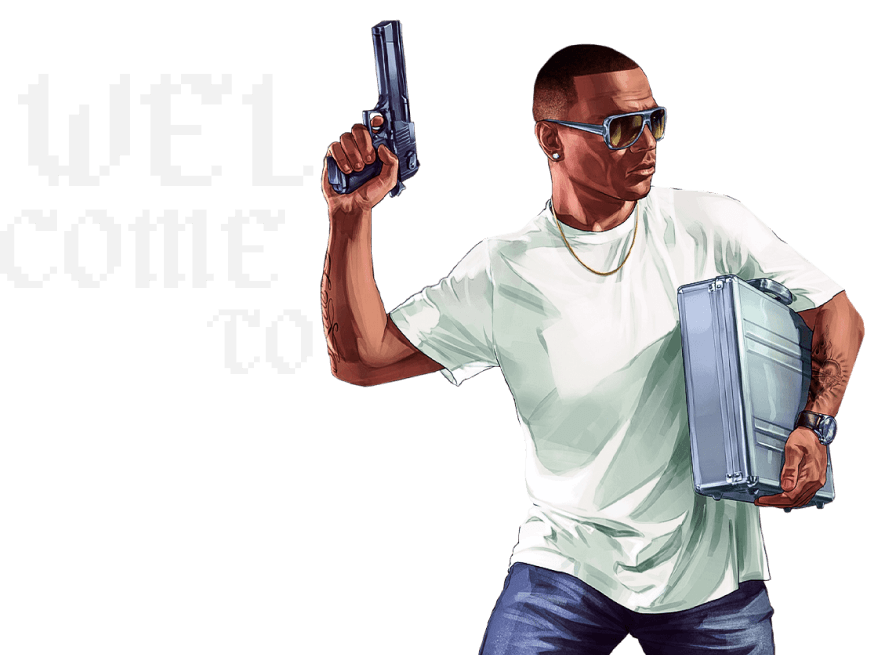
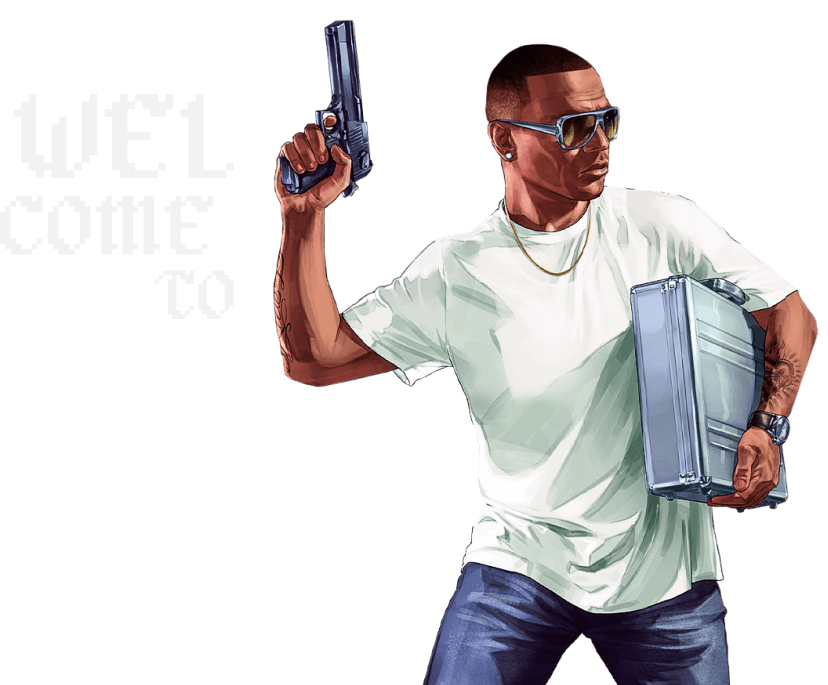
change home to match new design

Changed region(s): [[0.3321, 0.0305, 0.9964, 1.0], [0.8756, 0.3359, 0.9058, 0.3664]]

diff --git a/src/components/pages/home/homeWebSection/HomeWebSection.tsx b/src/components/pages/home/homeWebSection/HomeWebSection.tsx
@@ -1,0 +1,49 @@
+import Image from 'next/image'
+import { twMerge } from 'tailwind-merge'
+
+import liquidBg from '@/assets/images/home_bg_animated.gif'
+import hero from '@/assets/images/home_hero.png'
+import logo from '@/assets/images/logo_type_white.svg'
+
+import { HomeFakeSignIn } from '../HomeFakeSignIn'
+import { HomeVideoButton } from '../HomeVideoButton'
+import { HomeWebSectionMessage } from './HomeWebSectionMessage'
+import { HomeWebSectionSteamButton } from './HomeWebSectionSteamButton'
+
+export function HomeWebSection() {
+  return (
+    <section className={twMerge('gap-16 bg-home', 'xl:hidden')}>
+      <div className="relative mt-[3%] min-w-[58%] items-center justify-end">
+        <Image
+          src={liquidBg}
+          alt="Animated Gif"
+          width={700}
+          sizes="100vw"
+          className="mt-3 h-fit w-[64%]"
+        />
+
+        <Image
+          src={hero}
+          alt="GTA V personagem"
+          className="absolute bottom-0 right-10 w-3/4"
+          sizes="100vw"
+          priority
+        />
+      </div>
+
+      <div className="flex-col items-start justify-center gap-8">
+        <Image src={logo} alt="Reload" width={305} />
+
+        <HomeWebSectionMessage />
+
+        <div className="max-w-[452px] flex-initial items-center justify-center gap-4">
+          <HomeWebSectionSteamButton />
+
+          <HomeVideoButton />
+        </div>
+
+        <HomeFakeSignIn />
+      </div>
+    </section>
+  )
+}

diff --git a/src/app/page.tsx b/src/app/page.tsx
@@ -1,46 +1,15 @@
-import {
-  AnimatedBg,
-  Brand,
-  FakeSignIn,
-  HeroImage,
-  HeroMobileImage,
-  MobileHeader,
-} from '@/components/pages'
+import { HomeMobileSection, HomeWebSection } from '@/components/pages'
 
 import { Footer } from '@/components/shared'
 
 export default function Home() {
   return (
-    <>
-      <main className="relative h-screen select-none flex-col items-center justify-center bg-black bg-home bg-cover bg-no-repeat xl:bg-home_mobile xl:bg-contain xl:bg-[position:top_right,_bottom_left]">
-        <section className="items-center xl:hidden">
-          <AnimatedBg />
+    <main className="h-screen flex-col">
+      <HomeWebSection />
 
-          <HeroImage />
+      <HomeMobileSection />
 
-          <section className="relative z-10 max-w-[37.3%] flex-col justify-center gap-6 pl-[3.6%] 3xl:gap-5">
-            <Brand />
-
-            <FakeSignIn />
-          </section>
-        </section>
-
-        <section className="hidden flex-col items-center xl:flex xl:px-7">
-          <MobileHeader />
-
-          <HeroMobileImage />
-
-          <Brand />
-        </section>
-
-        <div className="flex-initial xl:hidden">
-          <Footer />
-        </div>
-      </main>
-
-      <div className="hidden flex-initial xl:flex">
-        <Footer />
-      </div>
-    </>
+      <Footer />
+    </main>
   )
 }

diff --git a/src/components/pages/home/homeMobileSection/HomeMobileSection.tsx b/src/components/pages/home/homeMobileSection/HomeMobileSection.tsx
@@ -1,0 +1,32 @@
+import Image from 'next/image'
+import { twMerge } from 'tailwind-merge'
+
+import logo from '@/assets/images/logo_type_white.svg'
+
+import { HomeVideoButton } from '../HomeVideoButton'
+import { HomeMobileSectionDiscordButton } from './HomeMobileSectionDiscordButton'
+import { HomeMobileSectionHero } from './HomeMobileSectionHero'
+import { HomeMobileSectionMessage } from './HomeMobileSectionMessage'
+
+export function HomeMobileSection() {
+  return (
+    <section
+      className={twMerge(
+        'hidden',
+        'xl:flex xl:select-none xl:pt-[60px] xl:pb-10 xl:flex-col xl:items-center xl:justify-center xl:bg-home_mobile xl:bg-cover xl:bg-no-repeat'
+      )}
+    >
+      <HomeMobileSectionHero />
+
+      <section className="flex-col items-center gap-10">
+        <Image src={logo} alt="Reload" width={250} />
+        <HomeMobileSectionMessage />
+        <div className="max-w-[80%] flex-col items-center justify-center gap-4">
+          <HomeMobileSectionDiscordButton />
+
+          <HomeVideoButton />
+        </div>
+      </section>
+    </section>
+  )
+}

diff --git a/src/components/pages/home/homeMobileSection/HomeMobileSectionDiscordButton.tsx b/src/components/pages/home/homeMobileSection/HomeMobileSectionDiscordButton.tsx
@@ -7,7 +7,7 @@ import { DISCORD_LINK } from '@/constants'
 
 import { Button } from '@/components/shared'
 
-export function DiscordButton() {
+export function HomeMobileSectionDiscordButton() {
   const handleRedirectToDiscord = useCallback(() => {
     window.open(DISCORD_LINK, '_blank')
   }, [])
@@ -15,9 +15,9 @@ export function DiscordButton() {
   return (
     <Button.Root className="w-full" onClick={handleRedirectToDiscord}>
       <Button.Icon icon={SiDiscord} className="text-[1.625rem]" />
-      <Button.Content className="font-semibold sm:text-sm">
-        Faça parte do nosso{' '}
-        <strong className="inline-block font-bold">Discord</strong>
+      <Button.Content className="text-sm">
+        Junte-se a{' '}
+        <strong className="inline-block font-bold">Comunidade</strong>
       </Button.Content>
     </Button.Root>
   )

diff --git a/src/components/pages/home/homeWebSection/HomeWebSectionSteamButton.tsx b/src/components/pages/home/homeWebSection/HomeWebSectionSteamButton.tsx
@@ -1,0 +1,20 @@
+'use client'
+
+import { SiSteam } from 'react-icons/si'
+
+import { Button } from '@/components/shared'
+
+const url = `${process.env.NEXT_PUBLIC_REACT_APP_API_URL}/accounts/login/steam/`
+
+export function HomeWebSectionSteamButton() {
+  return (
+    <form className="w-full" action={url} method="POST">
+      <Button.Root className="min-h-[48px] w-full max-w-full" type="submit">
+        <Button.Icon icon={SiSteam} className="text-lg" />
+        <Button.Content className="text-sm">
+          Entrar com <strong className="font-bold">Steam</strong>
+        </Button.Content>
+      </Button.Root>
+    </form>
+  )
+}

diff --git a/src/components/pages/home/HomeVideoButton.tsx b/src/components/pages/home/HomeVideoButton.tsx
@@ -1,0 +1,22 @@
+import { PiPlayFill } from 'react-icons/pi'
+import { twMerge } from 'tailwind-merge'
+
+import { Button } from '@/components/shared'
+
+export function HomeVideoButton() {
+  return (
+    <Button.Root
+      ghost
+      className={twMerge(
+        'min-h-[48px] w-full max-w-full gap-2 border-purple-400',
+        'hover:bg-purple-300'
+      )}
+      type="submit"
+    >
+      <Button.Icon icon={PiPlayFill} className="text-lg" />
+      <Button.Content className="text-sm">
+        Assistir <strong className="font-bold">Intro</strong>
+      </Button.Content>
+    </Button.Root>
+  )
+}

diff --git a/tailwind.config.ts b/tailwind.config.ts
@@ -90,8 +90,7 @@ const config: Config = {
       },
       backgroundImage: {
         home: "url('~/src/assets/images/home_bg.png')",
-        home_mobile:
-          "url('~/src/assets/images/home_mobile_bg_top.png'), url('~/src/assets/images/home_mobile_bg_bottom.png')",
+        home_mobile: "url('~/src/assets/images/home_mobile_bg.png')",
         sign_up_bottom_left:
           "linear-gradient(201deg, #000 0%, rgba(0, 0, 0, 0) 100%), url('~/src/assets/images/signup_bg_bottom_left.png')",
         not_found: "url('~/src/assets/images/bg_404.png')",

diff --git a/src/components/pages/home/HomeFakeSignIn.tsx b/src/components/pages/home/HomeFakeSignIn.tsx
@@ -18,7 +18,7 @@ type FieldsErrors = {
   email: string
 }
 
-export function FakeSignIn() {
+export function HomeFakeSignIn() {
   const { initializeSlices } = useInitializeSlices()
   const showErrorToast = useShowErrorToast()
   const router = useRouter()
@@ -100,7 +100,7 @@ export function FakeSignIn() {
     return null
 
   return (
-    <div className="max-w-[310px] flex-col">
+    <div className="max-w-[452px] flex-initial flex-col">
       <Divider />
 
       <div className="mt-2.5 flex-col ">

diff --git a/src/components/pages/home/homeMobileSection/HomeMobileSectionMessage.tsx b/src/components/pages/home/homeMobileSection/HomeMobileSectionMessage.tsx
@@ -1,0 +1,15 @@
+import { twMerge } from 'tailwind-merge'
+
+export function HomeMobileSectionMessage() {
+  return (
+    <p
+      className={twMerge(
+        'max-w-[324px] text-lg leading-7',
+        'xl:text-center xl:text-base'
+      )}
+    >
+      Jogue partidas <span className="font-semibold">5x5 ranqueadas</span> no
+      GTA. Plante, desarme, suba de nível e <br /> prove seu valor. Reload.
+    </p>
+  )
+}

diff --git a/src/components/pages/home/homeMobileSection/HomeMobileSectionHero.tsx b/src/components/pages/home/homeMobileSection/HomeMobileSectionHero.tsx
@@ -1,0 +1,15 @@
+import Image from 'next/image'
+import { twMerge } from 'tailwind-merge'
+
+import heroMobileImg from '@/assets/images/home_mobile_hero.png'
+
+export function HomeMobileSectionHero() {
+  return (
+    <Image
+      src={heroMobileImg}
+      priority={true}
+      alt="Personagem do GTA 5"
+      className={twMerge('max-w-full', 'range-md-xl:max-w-[28%]')}
+    />
+  )
+}

diff --git a/src/components/pages/home/index.ts b/src/components/pages/home/index.ts
@@ -1,8 +1,4 @@
 /* eslint-disable prettier/prettier */
-export * from './AnimatedBg'
-export * from './FakeSignIn'
-export * from './HeroImage'
-export * from './HeroMobileImage'
-export * from './MobileHeader'
-export * from './brand/Brand'
+export * from './homeMobileSection/HomeMobileSection'
+export * from './homeWebSection/HomeWebSection'
 

diff --git a/src/components/pages/home/homeWebSection/HomeWebSectionMessage.tsx b/src/components/pages/home/homeWebSection/HomeWebSectionMessage.tsx
@@ -1,0 +1,10 @@
+import { twMerge } from 'tailwind-merge'
+
+export function HomeWebSectionMessage() {
+  return (
+    <p className={twMerge('max-w-[444px] text-lg leading-7')}>
+      Jogue partidas <span className="font-semibold">5x5 ranqueadas</span> no
+      GTA. Plante, desarme, suba de nível e prove seu valor. Reload.
+    </p>
+  )
+}
